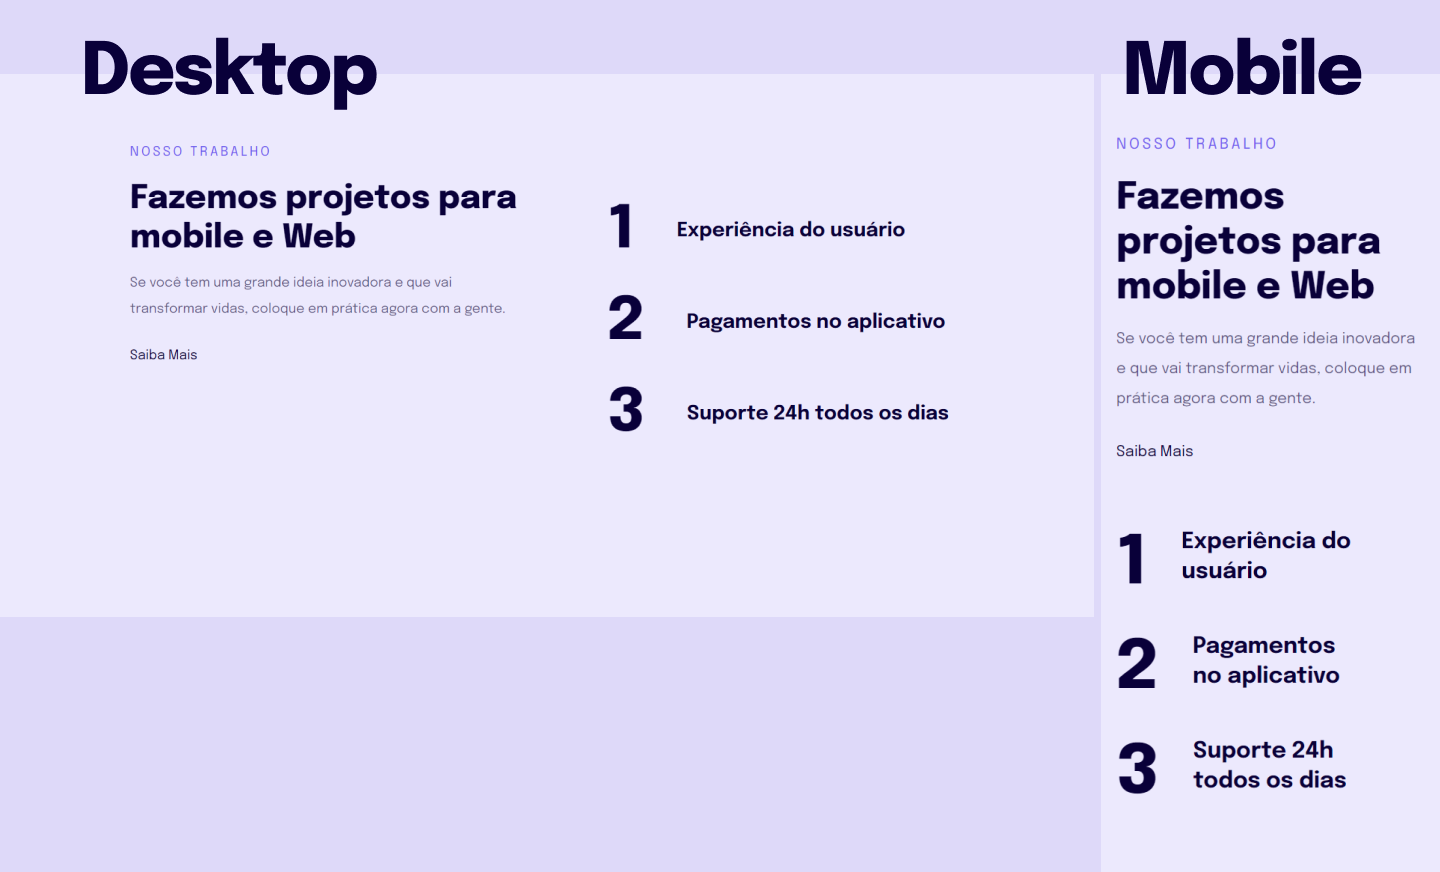
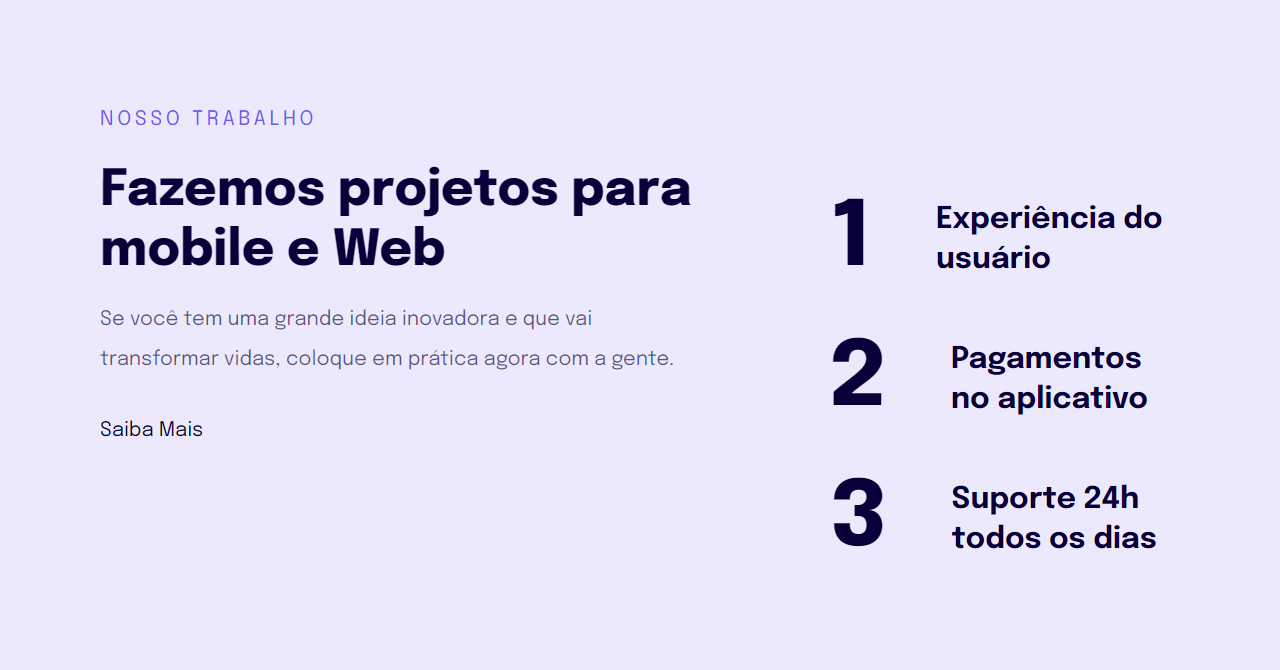
Readme imagens

diff --git a/readme.md b/readme.md
@@ -1,5 +1,10 @@
 # Projeto 04: Responsividade
+
+### Desktop
 <img src="./images/screenshot.png"/>
+
+### Mobile
+<img src="./images/screenshot-mobile.png"/>
 
 ### Acesse o projeto: [Aqui](https://jonasncsantos.github.io/Crie-seu-evento/)
 
